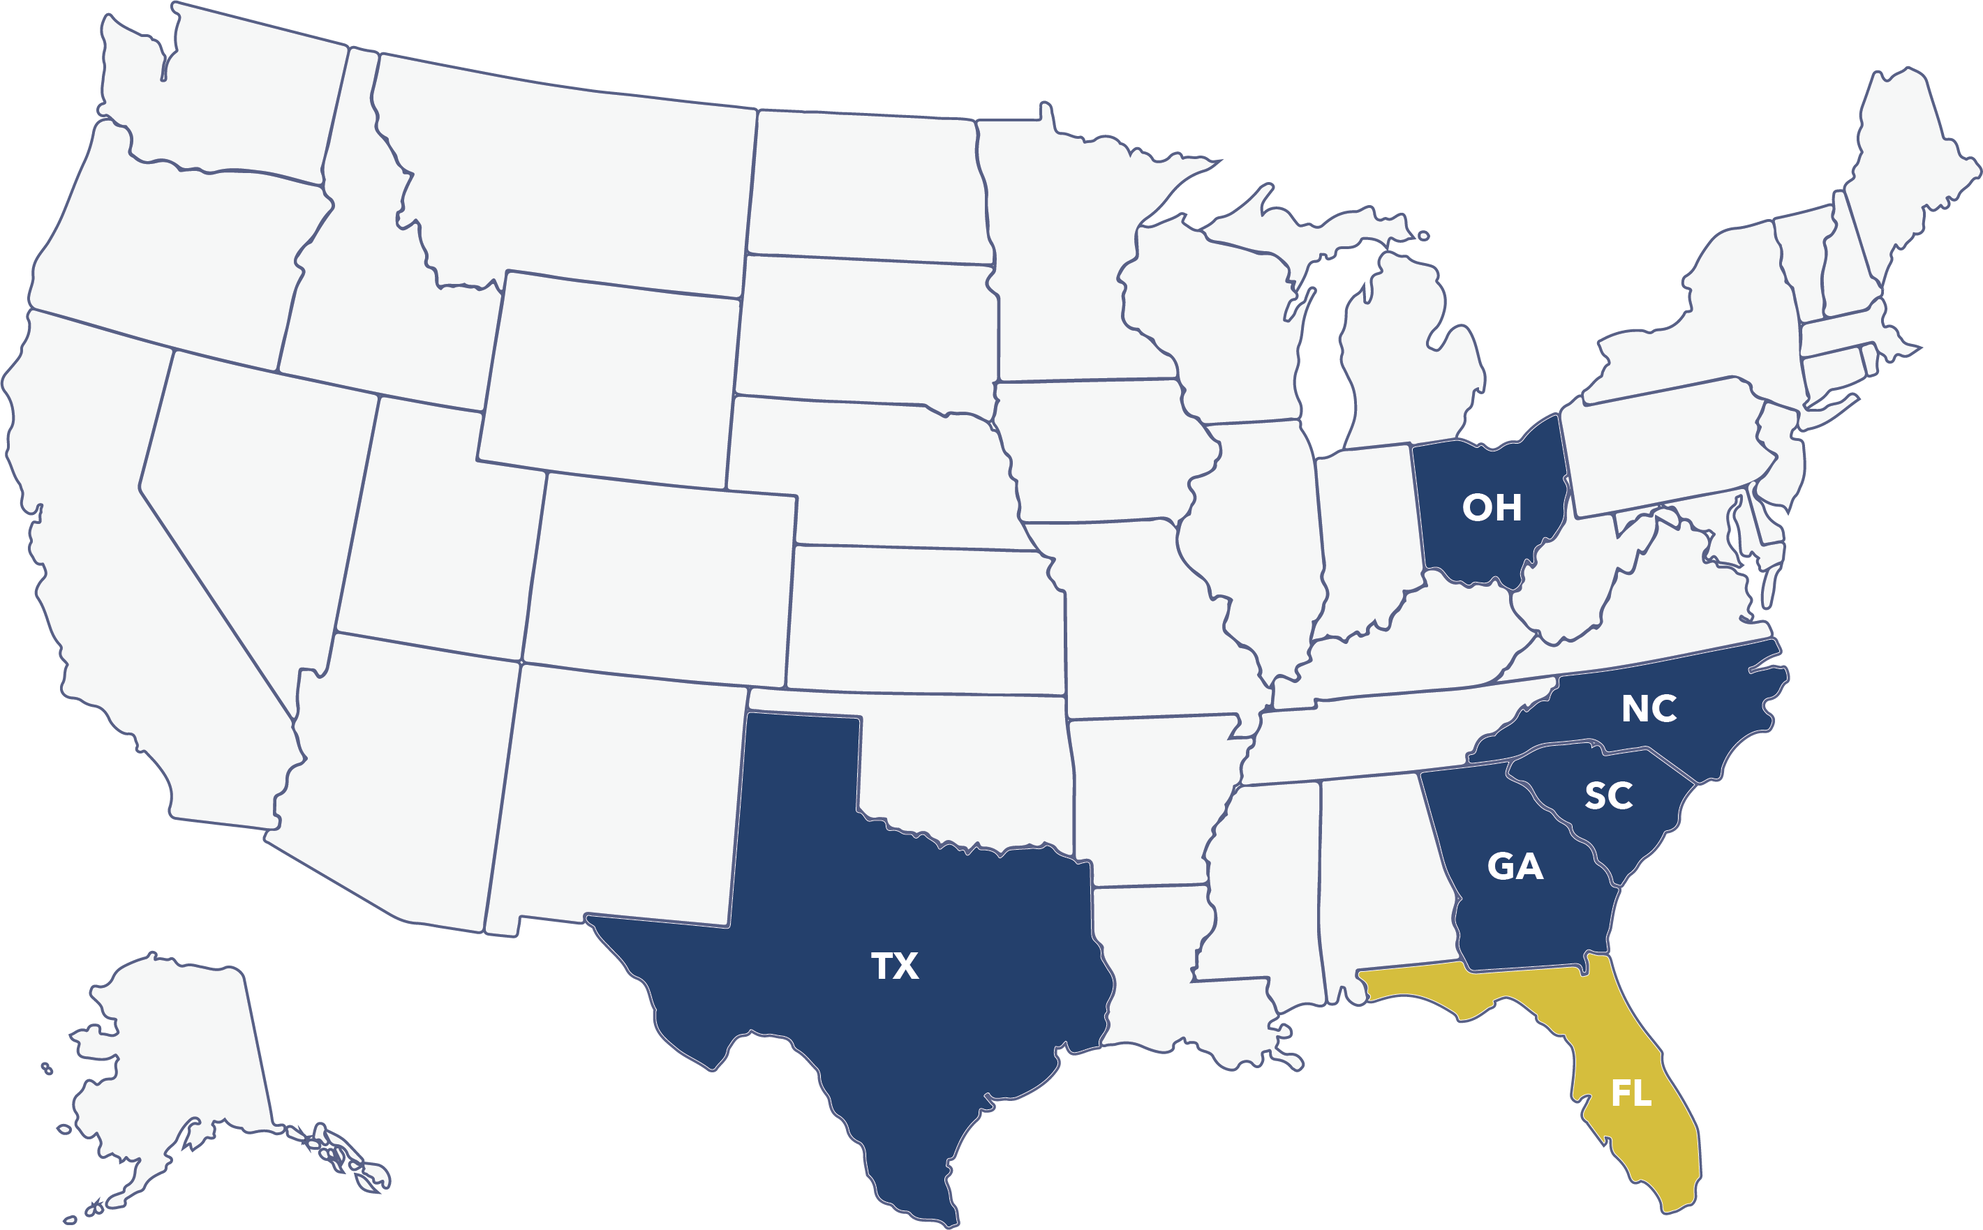
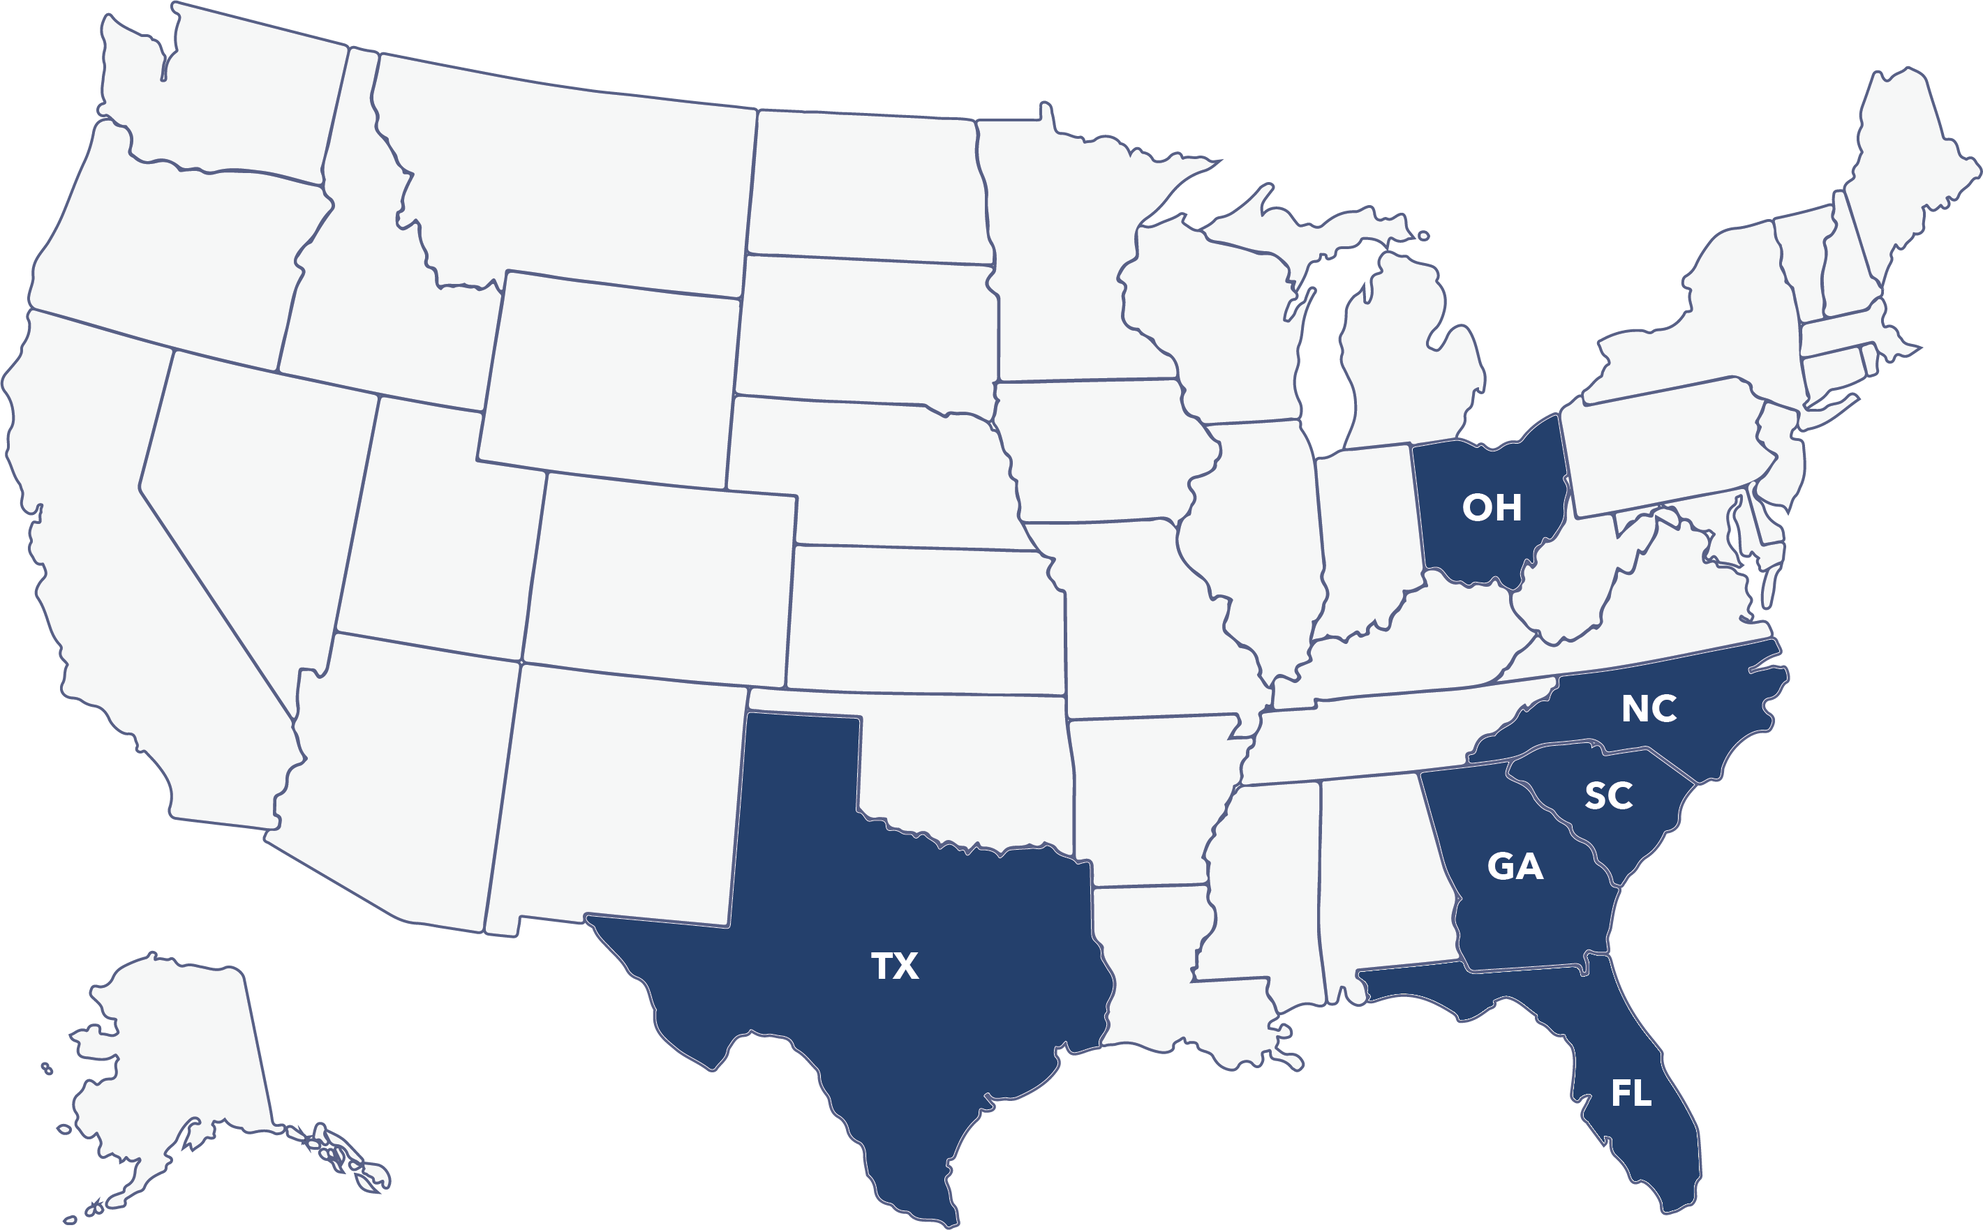
Mobile-friendly UI: nav drawer, responsive forms, Florida chapter color
- App shell: sidebar becomes a slide-in drawer below lg with hamburger,
  backdrop, and auto-close on navigation; min-w-0 on the content column so
  wide tables scroll inside their own container instead of the page
- Dialogs: viewport-width cap with margins on phones, tighter padding
- Bare grid-cols-2/3 form grids collapse to one column below sm (63 spots)
- Header/main padding tightens on small screens
- Chapter map: Florida recolored from gold to the same navy as the other
  five chapter states (white FL label and antialiased edges preserved)

Verified at 375px, 768px, and 1280px against the local dev server.

Changed region(s): [[0.6815, 0.7799, 0.8673, 0.9983]]

diff --git a/apps/web/src/components/layout/AppLayout.tsx b/apps/web/src/components/layout/AppLayout.tsx
@@ -12,11 +12,14 @@ import {
   Inbox,
   LayoutDashboard,
   LogOut,
+  Menu,
   School,
   Settings,
   Users,
   UsersRound,
+  X,
 } from 'lucide-react';
+import { useState } from 'react';
 import { NavLink, Outlet, useNavigate } from 'react-router-dom';
 import logoWhite from '@/assets/brand/jumpstart-logo-white.png';
 import { Button } from '@/components/ui/button';
@@ -85,6 +88,7 @@ const NAV_SECTIONS: { title: string; items: NavItem[] }[] = [
 export function AppLayout() {
   const { user, can, logout } = useAuth();
   const navigate = useNavigate();
+  const [navOpen, setNavOpen] = useState(false);
 
   if (!user) {
     navigate('/login');
@@ -93,7 +97,21 @@ export function AppLayout() {
 
   return (
     <div className="flex min-h-screen">
-      <aside className="fixed inset-y-0 left-0 z-30 flex w-60 flex-col bg-navy-deep text-white">
+      {/* Backdrop for the mobile nav drawer */}
+      {navOpen ? (
+        <div
+          className="fixed inset-0 z-30 bg-black/50 lg:hidden"
+          onClick={() => setNavOpen(false)}
+          aria-hidden="true"
+        />
+      ) : null}
+
+      <aside
+        className={cn(
+          'fixed inset-y-0 left-0 z-40 flex w-60 flex-col bg-navy-deep text-white transition-transform duration-200 lg:translate-x-0',
+          navOpen ? 'translate-x-0' : '-translate-x-full',
+        )}
+      >
         <div className="flex h-20 flex-col justify-center border-b border-white/10 px-4">
           {/* brightness(0) invert(1) flattens the PNG's antialiased grays to pure white */}
           <img
@@ -102,6 +120,14 @@ export function AppLayout() {
             className="h-10 w-auto self-start [filter:brightness(0)_invert(1)]"
           />
           <div className="mt-1.5 text-[11px] tracking-wide text-white/50">Operations Platform</div>
+          <button
+            type="button"
+            className="absolute right-3 top-3 rounded-md p-1 text-white/70 hover:bg-white/10 hover:text-white lg:hidden"
+            onClick={() => setNavOpen(false)}
+            aria-label="Close navigation"
+          >
+            <X className="h-5 w-5" />
+          </button>
         </div>
 
         <nav className="flex-1 space-y-4 overflow-y-auto p-3">
@@ -119,6 +145,7 @@ export function AppLayout() {
                       key={item.to}
                       to={item.to}
                       end={item.to === '/'}
+                      onClick={() => setNavOpen(false)}
                       className={({ isActive }) =>
                         cn(
                           'flex items-center gap-2.5 rounded-md px-2 py-1.5 text-sm text-white/70 transition-colors hover:bg-white/10 hover:text-white',
@@ -155,11 +182,19 @@ export function AppLayout() {
         </div>
       </aside>
 
-      <div className="ml-60 flex min-h-screen flex-1 flex-col">
-        <header className="sticky top-0 z-20 flex h-14 items-center gap-4 border-b bg-background/95 px-6 backdrop-blur">
+      <div className="flex min-h-screen min-w-0 flex-1 flex-col lg:ml-60">
+        <header className="sticky top-0 z-20 flex h-14 items-center gap-3 border-b bg-background/95 px-4 backdrop-blur sm:px-6">
+          <button
+            type="button"
+            className="rounded-md p-1.5 text-muted-foreground hover:bg-muted hover:text-foreground lg:hidden"
+            onClick={() => setNavOpen(true)}
+            aria-label="Open navigation"
+          >
+            <Menu className="h-5 w-5" />
+          </button>
           <GlobalSearch />
         </header>
-        <main className="flex-1 p-6">
+        <main className="flex-1 p-4 sm:p-6">
           <Outlet />
         </main>
       </div>

diff --git a/apps/web/src/pages/case-management/edit-dialogs.tsx b/apps/web/src/pages/case-management/edit-dialogs.tsx
@@ -106,7 +106,7 @@ export function EditNoteDialog({
             update.mutate(values);
           })}
         >
-          <div className="grid grid-cols-3 gap-3">
+          <div className="grid grid-cols-1 sm:grid-cols-3 gap-3">
             <FormField label="Date" required error={formState.errors.noteDate}>
               <Input type="date" {...register('noteDate')} />
             </FormField>
@@ -229,7 +229,7 @@ export function EditServiceDialog({
             update.mutate(values);
           })}
         >
-          <div className="grid grid-cols-2 gap-3">
+          <div className="grid grid-cols-1 sm:grid-cols-2 gap-3">
             <FormField label="Service type" required error={formState.errors.serviceType}>
               <Input {...register('serviceType')} />
             </FormField>
@@ -363,7 +363,7 @@ export function EditAssessmentDialog({
             update.mutate(values);
           })}
         >
-          <div className="grid grid-cols-2 gap-3">
+          <div className="grid grid-cols-1 sm:grid-cols-2 gap-3">
             <FormField label="Instrument" required error={formState.errors.instrumentName}>
               <Input {...register('instrumentName')} />
             </FormField>
@@ -376,7 +376,7 @@ export function EditAssessmentDialog({
           </FormField>
           <div className="space-y-1.5">
             <Label>Domain scores</Label>
-            <div className="grid grid-cols-2 gap-x-4 gap-y-2 rounded-md border p-3 sm:grid-cols-3">
+            <div className="grid grid-cols-1 sm:grid-cols-2 gap-x-4 gap-y-2 rounded-md border p-3 sm:grid-cols-3">
               {[...DOMAINS, ...extraDomains].map((domain) => (
                 <div key={domain} className="space-y-1">
                   <Label className="text-xs text-muted-foreground">{humanize(domain)}</Label>

diff --git a/apps/web/src/pages/case-management/NeedsAssessmentsPage.tsx b/apps/web/src/pages/case-management/NeedsAssessmentsPage.tsx
@@ -117,7 +117,7 @@ function RecordAssessmentDialog({
               }}
             />
           </FormField>
-          <div className="grid grid-cols-2 gap-3">
+          <div className="grid grid-cols-1 sm:grid-cols-2 gap-3">
             <FormField label="Instrument" required error={formState.errors.instrumentName}>
               <Input placeholder="e.g. Self-Sufficiency Matrix" {...register('instrumentName')} />
             </FormField>
@@ -130,7 +130,7 @@ function RecordAssessmentDialog({
           </FormField>
           <div className="space-y-1.5">
             <Label>Domain scores</Label>
-            <div className="grid grid-cols-2 gap-x-4 gap-y-2 rounded-md border p-3 sm:grid-cols-3">
+            <div className="grid grid-cols-1 sm:grid-cols-2 gap-x-4 gap-y-2 rounded-md border p-3 sm:grid-cols-3">
               {DOMAINS.map((domain) => (
                 <div key={domain} className="space-y-1">
                   <Label className="text-xs text-muted-foreground">{humanize(domain)}</Label>
@@ -185,7 +185,7 @@ function AssessmentViewDialog({
               </DialogDescription>
             </DialogHeader>
             {assessment.domainScores && Object.keys(assessment.domainScores).length > 0 ? (
-              <div className="grid grid-cols-2 gap-2 sm:grid-cols-3">
+              <div className="grid grid-cols-1 sm:grid-cols-2 gap-2 sm:grid-cols-3">
                 {Object.entries(assessment.domainScores).map(([domain, score]) => (
                   <div key={domain} className="rounded-md border p-2 text-center">
                     <p className="text-xs text-muted-foreground">{humanize(domain)}</p>

diff --git a/apps/web/src/pages/crm/events/EventFormDialog.tsx b/apps/web/src/pages/crm/events/EventFormDialog.tsx
@@ -97,7 +97,7 @@ export function EventFormDialog({
           <FormField label="Name" required error={form.formState.errors.name}>
             <Input {...form.register('name')} />
           </FormField>
-          <div className="grid grid-cols-2 gap-4">
+          <div className="grid grid-cols-1 sm:grid-cols-2 gap-4">
             <FormField label="Date" required error={form.formState.errors.eventDate}>
               <Input type="date" {...form.register('eventDate')} />
             </FormField>
@@ -105,7 +105,7 @@ export function EventFormDialog({
               <Input {...form.register('eventType', optional)} />
             </FormField>
           </div>
-          <div className="grid grid-cols-2 gap-4">
+          <div className="grid grid-cols-1 sm:grid-cols-2 gap-4">
             <FormField label="Location" error={form.formState.errors.location}>
               <Input {...form.register('location', optional)} />
             </FormField>
@@ -120,7 +120,7 @@ export function EventFormDialog({
               </Select>
             </FormField>
           </div>
-          <div className="grid grid-cols-3 gap-4">
+          <div className="grid grid-cols-1 sm:grid-cols-3 gap-4">
             <FormField label="Attendance" error={form.formState.errors.attendanceCount}>
               <Input type="number" min="0" step="1" {...form.register('attendanceCount', optional)} />
             </FormField>

diff --git a/apps/web/src/pages/crm/donors/DonationFormDialog.tsx b/apps/web/src/pages/crm/donors/DonationFormDialog.tsx
@@ -166,7 +166,7 @@ export function DonationFormDialog({
               }}
             />
           </FormField>
-          <div className="grid grid-cols-2 gap-4">
+          <div className="grid grid-cols-1 sm:grid-cols-2 gap-4">
             <FormField label="Date" required error={form.formState.errors.donationDate}>
               <Input type="date" {...form.register('donationDate')} />
             </FormField>
@@ -174,7 +174,7 @@ export function DonationFormDialog({
               <Input type="number" step="0.01" min="0" {...form.register('amount')} />
             </FormField>
           </div>
-          <div className="grid grid-cols-2 gap-4">
+          <div className="grid grid-cols-1 sm:grid-cols-2 gap-4">
             <FormField label="Payment method" error={form.formState.errors.paymentMethod}>
               <Input {...form.register('paymentMethod', optional)} />
             </FormField>
@@ -182,7 +182,7 @@ export function DonationFormDialog({
               <Input {...form.register('fund', optional)} />
             </FormField>
           </div>
-          <div className="grid grid-cols-2 gap-4">
+          <div className="grid grid-cols-1 sm:grid-cols-2 gap-4">
             <FormField label="Campaign" error={form.formState.errors.campaignId}>
               <Select {...form.register('campaignId', optional)}>
                 <option value="">None</option>

diff --git a/apps/web/src/pages/admin/UsersPage.tsx b/apps/web/src/pages/admin/UsersPage.tsx
@@ -229,7 +229,7 @@ const inviteResolver = zodResolver(createUserSchema) as unknown as Resolver<Invi
 
 function RoleCheckboxes({ register }: { register: UseFormRegister<InviteFormValues> }) {
   return (
-    <div className="grid grid-cols-2 gap-x-4 gap-y-2">
+    <div className="grid grid-cols-1 sm:grid-cols-2 gap-x-4 gap-y-2">
       {ROLE_KEYS.map((key) => (
         <Label key={key} className="flex items-center gap-2 font-normal">
           <Checkbox value={key} {...register('roles')} />
@@ -325,7 +325,7 @@ function InviteUserDialog({
             })}
             className="space-y-4"
           >
-            <div className="grid grid-cols-2 gap-3">
+            <div className="grid grid-cols-1 sm:grid-cols-2 gap-3">
               <FormField label="First name" required error={formState.errors.firstName}>
                 <Input {...register('firstName')} />
               </FormField>
@@ -419,7 +419,7 @@ function EditUserDialogInner({ user, onClose }: { user: AdminUser; onClose: () =
           })}
           className="space-y-4"
         >
-          <div className="grid grid-cols-2 gap-3">
+          <div className="grid grid-cols-1 sm:grid-cols-2 gap-3">
             <FormField label="First name" required error={formState.errors.firstName}>
               <Input {...register('firstName')} />
             </FormField>

diff --git a/apps/web/src/pages/mentoring/OutcomeCheckinsPage.tsx b/apps/web/src/pages/mentoring/OutcomeCheckinsPage.tsx
@@ -69,7 +69,7 @@ function JusticeQuestion({
   const value = form.watch(field);
   const answered = value !== undefined;
   return (
-    <div className="grid grid-cols-2 gap-3">
+    <div className="grid grid-cols-1 sm:grid-cols-2 gap-3">
       <FormField label={label}>
         <Select
           value={value === undefined ? '' : value ? 'yes' : 'no'}
@@ -171,7 +171,7 @@ function CompleteCheckinDialog({
         >
           {topError ? <ErrorState error={new Error(topError)} /> : null}
 
-          <div className="grid grid-cols-2 gap-3">
+          <div className="grid grid-cols-1 sm:grid-cols-2 gap-3">
             <FormField label="Completed date" required error={form.formState.errors.completedDate}>
               <Input type="date" {...form.register('completedDate')} />
             </FormField>
@@ -187,7 +187,7 @@ function CompleteCheckinDialog({
             </FormField>
           </div>
 
-          <div className="grid grid-cols-2 gap-3">
+          <div className="grid grid-cols-1 sm:grid-cols-2 gap-3">
             <FormField label="Employment" error={form.formState.errors.employmentStatus}>
               <Select {...form.register('employmentStatus', { setValueAs: emptyToUndefined })}>
                 <option value="">Not collected</option>

diff --git a/apps/web/src/pages/crm/campaigns/CampaignFormDialog.tsx b/apps/web/src/pages/crm/campaigns/CampaignFormDialog.tsx
@@ -93,7 +93,7 @@ export function CampaignFormDialog({
           <FormField label="Name" required error={form.formState.errors.name}>
             <Input {...form.register('name')} />
           </FormField>
-          <div className="grid grid-cols-2 gap-4">
+          <div className="grid grid-cols-1 sm:grid-cols-2 gap-4">
             <FormField label="Status" required error={form.formState.errors.status}>
               <Select {...form.register('status')}>
                 {CAMPAIGN_STATUSES.map((s) => (
@@ -107,7 +107,7 @@ export function CampaignFormDialog({
               <Input type="number" step="0.01" min="0" {...form.register('goalAmount', optional)} />
             </FormField>
           </div>
-          <div className="grid grid-cols-2 gap-4">
+          <div className="grid grid-cols-1 sm:grid-cols-2 gap-4">
             <FormField label="Start date" error={form.formState.errors.startDate}>
               <Input type="date" {...form.register('startDate', optional)} />
             </FormField>

diff --git a/apps/web/src/pages/crm/vendors/VendorFormDialog.tsx b/apps/web/src/pages/crm/vendors/VendorFormDialog.tsx
@@ -120,7 +120,7 @@ export function VendorFormDialog({
           <FormField label="Name" required error={form.formState.errors.name}>
             <Input {...form.register('name')} />
           </FormField>
-          <div className="grid grid-cols-2 gap-4">
+          <div className="grid grid-cols-1 sm:grid-cols-2 gap-4">
             <FormField label="Contact person" error={form.formState.errors.contactPerson}>
               <Input {...form.register('contactPerson', optional)} />
             </FormField>
@@ -134,7 +134,7 @@ export function VendorFormDialog({
           <FormField label="Address" error={form.formState.errors.addressLine1}>
             <Input {...form.register('addressLine1', optional)} />
           </FormField>
-          <div className="grid grid-cols-3 gap-4">
+          <div className="grid grid-cols-1 sm:grid-cols-3 gap-4">
             <FormField label="City" error={form.formState.errors.city}>
               <Input {...form.register('city', optional)} />
             </FormField>

diff --git a/apps/web/src/pages/institutions/InstitutionFormDialog.tsx b/apps/web/src/pages/institutions/InstitutionFormDialog.tsx
@@ -126,7 +126,7 @@ export function InstitutionFormDialog({
             <FormField label="City" error={errors.city}>
               <Input {...register('city')} />
             </FormField>
-            <div className="grid grid-cols-2 gap-4">
+            <div className="grid grid-cols-1 sm:grid-cols-2 gap-4">
               <FormField label="State" required error={errors.state}>
                 <Select {...register('state')}>
                   <option value="">Select…</option>
@@ -161,7 +161,7 @@ export function InstitutionFormDialog({
               <FormField label="Name" error={errors.primaryContactName}>
                 <Input {...register('primaryContactName')} />
               </FormField>
-              <div className="grid grid-cols-2 gap-4">
+              <div className="grid grid-cols-1 sm:grid-cols-2 gap-4">
                 <FormField label="Role" error={errors.primaryContactRole}>
                   <Input {...register('primaryContactRole')} />
                 </FormField>

diff --git a/apps/web/src/pages/volunteers/VolunteerDetailPage.tsx b/apps/web/src/pages/volunteers/VolunteerDetailPage.tsx
@@ -282,7 +282,7 @@ function EditVolunteerDialog({
           <DialogTitle>Edit volunteer</DialogTitle>
         </DialogHeader>
         <form onSubmit={onSubmit} className="space-y-4">
-          <div className="grid grid-cols-2 gap-3">
+          <div className="grid grid-cols-1 sm:grid-cols-2 gap-3">
             <FormField label="First name" required error={personErrors.firstName}>
               <Input {...register('person.firstName')} />
             </FormField>
@@ -325,7 +325,7 @@ function EditVolunteerDialog({
             <FormField label="City" error={personErrors.city}>
               <Input {...register('person.city')} />
             </FormField>
-            <div className="grid grid-cols-2 gap-3">
+            <div className="grid grid-cols-1 sm:grid-cols-2 gap-3">
               <FormField label="State" error={personErrors.state}>
                 <Select
                   {...register('person.state', { setValueAs: (v) => (v === '' ? undefined : v) })}

diff --git a/apps/web/src/pages/volunteers/VolunteerListPage.tsx b/apps/web/src/pages/volunteers/VolunteerListPage.tsx
@@ -377,7 +377,7 @@ function CreateVolunteerDialog({
           </div>
         ) : (
           <form onSubmit={onSubmit} className="space-y-4">
-            <div className="grid grid-cols-2 gap-3">
+            <div className="grid grid-cols-1 sm:grid-cols-2 gap-3">
               <FormField label="First name" required error={personErrors.firstName}>
                 <Input {...register('person.firstName')} />
               </FormField>
@@ -420,7 +420,7 @@ function CreateVolunteerDialog({
               <FormField label="City" error={personErrors.city}>
                 <Input {...register('person.city')} />
               </FormField>
-              <div className="grid grid-cols-2 gap-3">
+              <div className="grid grid-cols-1 sm:grid-cols-2 gap-3">
                 <FormField label="State" error={personErrors.state}>
                   <Select
                     {...register('person.state', {
